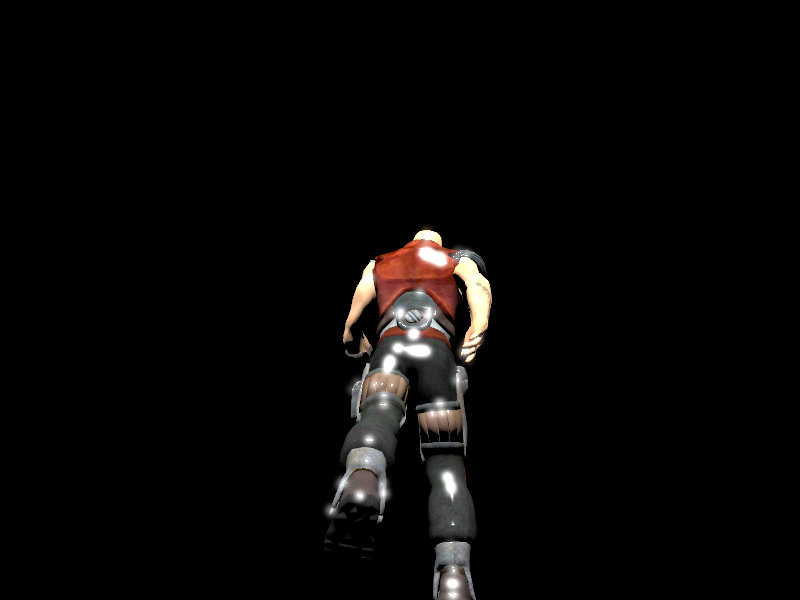
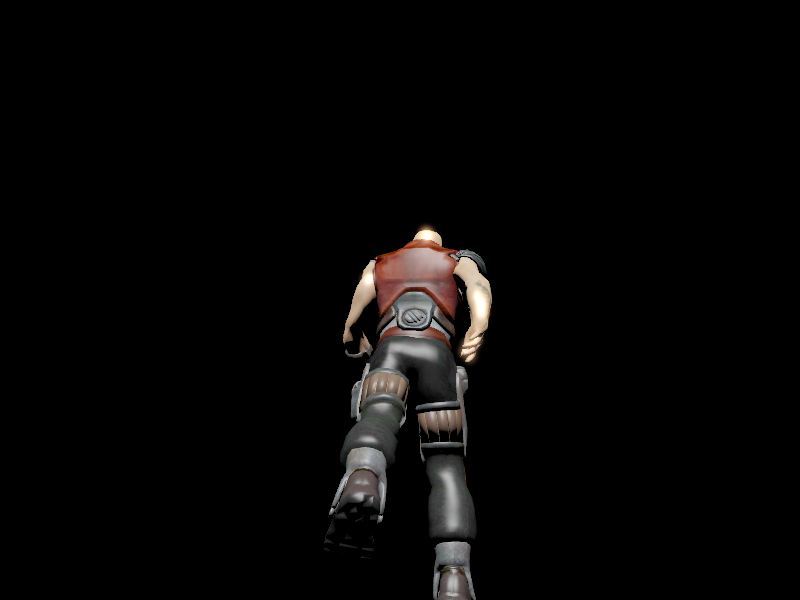
Added new fx (luminance.hlsl, tonemap.hlsl) Animation toggle in the tweak bar Luminance Mipmap gen Fixed a bug in lum_highpass.hlsl (it had a return float4(source, 1); in the inner loop) Lowered hard coded glossiness/specpower

diff --git a/gfx/gfxdemo.cpp b/gfx/gfxdemo.cpp
@@ -88,8 +88,14 @@ void GfxDemo::init_gbuffers(int w, int h)
 	d3d.device->CreateTexture2D(&desc, nullptr, &debug[0]);
 	desc.SampleDesc.Count = 1;
 	d3d.device->CreateTexture2D(&desc, nullptr, &debug[1]);
+
+	desc.MipLevels = 0;
+	desc.MiscFlags = D3D11_RESOURCE_MISC_GENERATE_MIPS;
 	d3d.device->CreateTexture2D(&desc, nullptr, &debug[2]);
 	//DEBUG[1, 2] is NOT MSAA
+	//debug 0 is msaa 
+	//debug 1 is no msaa
+	//debug 2 is no msaa and supports mip maps
 	
 
 	d3d::name(normal.p, "normal");
@@ -103,11 +109,19 @@ void GfxDemo::init_gbuffers(int w, int h)
 	d3d.device->CreateRenderTargetView(debug[0], nullptr, &debug_rtv[0]);
 	d3d.device->CreateRenderTargetView(debug[1], nullptr, &debug_rtv[1]);
 	d3d.device->CreateRenderTargetView(debug[2], nullptr, &debug_rtv[2]);
+
 	d3d.device->CreateShaderResourceView(normal, nullptr, &normal_srv);
 	d3d.device->CreateShaderResourceView(albedo, nullptr, &albedo_srv);
 	d3d.device->CreateShaderResourceView(debug[0], nullptr, &debug_srv[0]);
 	d3d.device->CreateShaderResourceView(debug[1], nullptr, &debug_srv[1]);
-	d3d.device->CreateShaderResourceView(debug[2], nullptr, &debug_srv[2]);
+	//debug 2 needs mip support
+	CD3D11_SHADER_RESOURCE_VIEW_DESC srv_desc;
+	srv_desc.ViewDimension = D3D11_SRV_DIMENSION_TEXTURE2D;
+	srv_desc.Texture2D.MostDetailedMip = 0;
+	srv_desc.Texture2D.MipLevels = -1;
+	srv_desc.Format = DXGI_FORMAT_R16G16B16A16_FLOAT;
+	
+	d3d.device->CreateShaderResourceView(debug[2], &srv_desc, &debug_srv[2]);
 	
 	d3d::name(normal_rtv.p, "normal");
 	d3d::name(albedo_rtv.p, "albedo");
@@ -148,10 +162,10 @@ void GfxDemo::init(HINSTANCE instance)
 	light_dir_ws[0] = 0;
 	light_dir_ws[1] = 1;
 	light_dir_ws[2] = 0;
-	
+	do_anim = false;
 	TwAddVarRW(bar, "Orientation", TW_TYPE_QUAT4F, obj_ori, "opened=true axisy=y axisz=-z");
 	TwAddVarRW(bar, "Dist", TW_TYPE_FLOAT, &cam_dist, "");
-	TwAddVarRW(bar, "Invert Depth", TW_TYPE_BOOLCPP, &invert_depth, "");
+	TwAddVarRW(bar, "Anim", TW_TYPE_BOOLCPP, &do_anim, "");
 	TwAddVarRW(bar, "Frame", TW_TYPE_UINT32, &anim_frame, "");
 	TwAddVarRW(bar, "GBuffer Debug", TW_TYPE_UINT32, &gbuffer_debug_mode, "min=0 max=3");
 	TwAddVarRW(bar, "Blur Sigma", TW_TYPE_FLOAT, &blur_sigma, "min=1 max=9 step=0.05");
@@ -176,18 +190,17 @@ void GfxDemo::init(HINSTANCE instance)
 }
 #include <iostream>
 float dt = 0;
-float debug_render_frame = 0;
+int debug_render_frame = 0;
 template<typename T>
 void clear_views(inout T** views, int num_views)
 {
 	for(int i = 0; i < num_views; i++) views[i] = nullptr;
 }
-
 void GfxDemo::frame()
 {		
-	
 
 	if(d3d.device == nullptr) return;
+
 	D3D11_TEXTURE2D_DESC t2d_desc;
 	ID3D11Texture2D* normal_resource = nullptr;
 	normal_srv->GetResource((ID3D11Resource**)&normal_resource);
@@ -307,6 +320,7 @@ void GfxDemo::frame()
 		nullptr,
 		nullptr
 	};
+	
 	d3d.immediate_ctx->PSSetShaderResources(0, srvs_count, srvs);
 	ID3D11RenderTargetView* rtvs[rtvs_count] = {
 		normal_rtv, 
@@ -348,44 +362,47 @@ void GfxDemo::frame()
 		&gbuffer_debug_cb_data, 
 		debug_rtv[0]);		
 	
-
+	fx::luminance(&d3d, &gpu_env, &fx_env.luminance_ctx, debug_srv[0],  debug_rtv[2]);
+	//d[2] is now lum
+	d3d.immediate_ctx->GenerateMips(debug_srv[2]);
+	//d[2] mips now have avg lum	
 	fx::lum_highpass(&d3d, &gpu_env, &fx_env.lum_highpass_ctx, 2,
-		debug_srv[0], debug_rtv[2]);		
+		debug_srv[0], debug_rtv[1]);		
+	//d[1] now has colors above lum
 	fx::blur(&d3d, &gpu_env, &fx_env.blur_ctx,
-		fx::eHorizontal, blur_sigma, debug_srv[2], debug_rtv[1]);
+		fx::eHorizontal, blur_sigma, debug_srv[1], debug_rtv[2]);
+	//d[2] now has h blurred bloom
 	fx::blur(&d3d, &gpu_env, &fx_env.blur_ctx,
-		fx::eVertical, blur_sigma, debug_srv[1], debug_rtv[2]);
-	fx::resolve(&d3d, &gpu_env, &fx_env.resolve_ctx, debug_srv[0], debug_rtv[1]);
-
+		fx::eVertical, blur_sigma, debug_srv[2], debug_rtv[1]);
+	//d[1] now has v blurred bloom
+	//d3d.immediate_ctx->ResolveSubresource(debug[2], 0, debug[0], 0, 
+	//	DXGI_FORMAT_R16G16B16A16_FLOAT);
+	//d[2] now has color
+	float dummy[4];
+	//d3d.immediate_ctx->OMSetBlendState(gpu_env.additive_blend, dummy, 1);
+	fx::tonemap(&d3d, &gpu_env, &tonemap_ctx, debug_srv[0], debug_rtv[2]);
+	//d3d.immediate_ctx->OMSetBlendState(gpu_env.standard_blend, dummy, 1);
+	//resort to extra add b/c blend just doesn't seem to work
 	fx::additive_blend(&d3d, &gpu_env, &fx_env.additive_blend_ctx, 
 		debug_srv[2], debug_srv[1], d3d.back_buffer_rtv);
-				
 	
-	ZeroMemory(rtvs, sizeof(rtvs));
-	ZeroMemory(srvs, sizeof(srvs));
+	if((debug_render_frame % 3 == 0) && do_anim) anim_frame++;
+	
 	//for debugging purposes
 	if(debug_render_frame == 0)
 	{
 		ID3D11Resource* backbuffer_tex;
 		d3d.back_buffer_rtv->GetResource(&backbuffer_tex);
 		D3DX11SaveTextureToFile(d3d.immediate_ctx, backbuffer_tex, D3DX11_IFF_PNG, L"comparison/test.png");
-		debug_render_frame++;
+		
 		backbuffer_tex->Release();
 	}
-
+	debug_render_frame++;
 	d3d.swap_buffers();	
 }
 
 void GfxDemo::load_models()
 {
-	float fsquad_data[] = {
-		-1, 1, 0,
-		1, 1, 0,
-		1, -1, 0,
-		-1, 1, 0,
-		1, -1, 0,
-		-1, -1, 0
-	};
 	if(0)
 	{		
 		model = asset::fbx::load_animated_fbx_model("assets/source/dude.fbx");
@@ -437,4 +454,5 @@ void GfxDemo::load_shaders()
 	fx::make_shade_gbuffer_ctx(&d3d, &shade_gbuffer_ctx);
 	fx::make_gpu_env(&d3d, &gpu_env);
 	fx::make_fx_env(&d3d, &fx_env);
+	fx::make_tonemap_ctx(&d3d, &tonemap_ctx);
 }

diff --git a/gfx/fx.cpp b/gfx/fx.cpp
@@ -79,6 +79,7 @@ namespace fx
 		make_blur_ctx(gfx, &env->blur_ctx);
 		make_lum_highpass_ctx(gfx, &env->lum_highpass_ctx);
 		make_additive_blend_ctx(gfx, &env->additive_blend_ctx);
+		make_luminance_ctx(gfx, &env->luminance_ctx);
 	}
 	void make_gpu_env(Gfx* gfx, out GpuEnvironment* env)
 	{
@@ -92,6 +93,8 @@ namespace fx
 		additive_blend_state_desc.IndependentBlendEnable = false;
 		additive_blend_state_desc.RenderTarget[0].SrcBlend = D3D11_BLEND_ONE;
 		additive_blend_state_desc.RenderTarget[0].DestBlend = D3D11_BLEND_ONE;
+		additive_blend_state_desc.RenderTarget[0].SrcBlendAlpha = D3D11_BLEND_ONE;
+		additive_blend_state_desc.RenderTarget[0].DestBlendAlpha = D3D11_BLEND_ONE;
 		additive_blend_state_desc.RenderTarget[0].BlendOp = D3D11_BLEND_OP_ADD;
 
 		gfx->immediate_ctx->OMGetBlendState(&env->standard_blend, 
@@ -117,9 +120,6 @@ namespace fx
 				gfx::VertexTypes::eFSQuad);
 			env->fsquad_stride = 3 * sizeof(float);
 			env->zero = 0;
-			
-				d3d::name(vs, "fsquad dummy");
-				d3d::name(ps, "fsquad dummy");
 			vs->Release(); 
 			ps->Release();
 			//fs quad vb
@@ -373,4 +373,57 @@ namespace fx
 	
 		gfx->immediate_ctx->Draw(6, 0);
 	}
+
+	void luminance( Gfx* gfx, 
+		const GpuEnvironment* gpu_env, 
+		const FXContext* fx_ctx, 
+		in Resource* input, 
+		out Target* output )
+	{
+		Target* targets[TARGETS_COUNT] = {output};
+		Resource* resources[RESOURCES_COUNT] = {input};
+
+		gfx->immediate_ctx->OMSetRenderTargets(TARGETS_COUNT, targets, nullptr);
+		gfx->immediate_ctx->PSSetShaderResources(0, RESOURCES_COUNT, resources);
+
+		gfx->immediate_ctx->IASetInputLayout(gpu_env->fsquad_il);
+		gfx->immediate_ctx->IASetVertexBuffers(0, 1, &gpu_env->fsquad_vb.p, &gpu_env->fsquad_stride, 
+			&gpu_env->zero);
+
+		gfx->immediate_ctx->VSSetShader(fx_ctx->vs, nullptr, 0);
+		gfx->immediate_ctx->PSSetShader(fx_ctx->ps, nullptr, 0);
+
+		gfx->immediate_ctx->Draw(6, 0);
+	}
+
+	void make_luminance_ctx( Gfx* gfx, out FXContext* ctx )
+	{
+		gfx->create_shaders_and_il(L"shaders/luminance.hlsl", 
+			&ctx->vs, &ctx->ps);
+	}
+
+	void make_tonemap_ctx( Gfx* gfx, out FXContext* ctx )
+	{
+		gfx->create_shaders_and_il(L"shaders/tonemap.hlsl", 
+			&ctx->vs, &ctx->ps);
+	}
+
+	void tonemap( Gfx* gfx, const GpuEnvironment* gpu_env, const FXContext* fx_ctx, in Resource* input, out Target* output )
+	{
+		Target* targets[TARGETS_COUNT] = {output};
+		Resource* resources[RESOURCES_COUNT] = {input};
+
+		gfx->immediate_ctx->OMSetRenderTargets(TARGETS_COUNT, targets, nullptr);
+		gfx->immediate_ctx->PSSetShaderResources(0, RESOURCES_COUNT, resources);
+
+		gfx->immediate_ctx->IASetInputLayout(gpu_env->fsquad_il);
+		gfx->immediate_ctx->IASetVertexBuffers(0, 1, &gpu_env->fsquad_vb.p, &gpu_env->fsquad_stride, 
+			&gpu_env->zero);
+
+		gfx->immediate_ctx->VSSetShader(fx_ctx->vs, nullptr, 0);
+		gfx->immediate_ctx->PSSetShader(fx_ctx->ps, nullptr, 0);
+
+		gfx->immediate_ctx->Draw(6, 0);
+	}
+
 };

diff --git a/gfx/fx.h b/gfx/fx.h
@@ -50,6 +50,7 @@ namespace fx
 		FXContext resolve_ctx;
 		FXContext lum_highpass_ctx;
 		FXContext additive_blend_ctx;
+		FXContext luminance_ctx;
 	};
 	//d3d states, etc
 	struct GpuEnvironment
@@ -70,7 +71,8 @@ namespace fx
 	void make_fx_env(Gfx* gfx, out FXEnvironment* env);
 	void make_gpu_env(Gfx* gfx, out GpuEnvironment* env);
 
-	
+	void make_tonemap_ctx(Gfx* gfx, out FXContext* ctx);
+	void make_luminance_ctx(Gfx* gfx, out FXContext* ctx);
 	void make_resolve_ctx(Gfx* gfx, out FXContext* ctx);
 	void make_additive_blend_ctx(Gfx* gfx, out FXContext* ctx);
 	void make_gen_gbuffer_ctx(Gfx* gfx, out GenGBufferContext* ctx);
@@ -119,6 +121,16 @@ namespace fx
 		const GpuEnvironment* gpu_env,
 		const FXContext* fx_ctx,
 		float min_lum,
+		in Resource* input,
+		out Target* output);
+	void luminance(Gfx* gfx, 
+		const GpuEnvironment* gpu_env,
+		const FXContext* fx_ctx,
+		in Resource* input,
+		out Target* output);
+	void tonemap(Gfx* gfx, 
+		const GpuEnvironment* gpu_env,
+		const FXContext* fx_ctx,
 		in Resource* input,
 		out Target* output);
 	void update_gpu_env(Gfx* gfx,		

diff --git a/gfx/gfxdemo.h b/gfx/gfxdemo.h
@@ -63,7 +63,7 @@ struct GfxDemo
 	float light_dir_ws[3];
 	bool aa_visualize;
 	float dx;
-
+	bool do_anim;
 	unsigned int anim_frame;
 
 	Window window;
@@ -76,4 +76,5 @@ struct GfxDemo
 	fx::GpuEnvironment gpu_env;
 	fx::FXEnvironment fx_env;
 	fx::FXContext shade_gbuffer_ctx;
+	fx::FXContext tonemap_ctx;
 };

diff --git a/gfx/shaders/shader.h b/gfx/shaders/shader.h
@@ -50,3 +50,8 @@ float2 vs_to_vp(float3 vs_pos, float2 vp_size, float4x4 proj)
 	float3 ndc = r.xyz / r.w;
 	return ndc_to_vp(vp_size, ndc.xyz);
 }
+
+float luminance(float3 source)
+{
+	return 0.2126 * source.r + 0.7152 * source.g + 0.0722 * source.b;
+}
